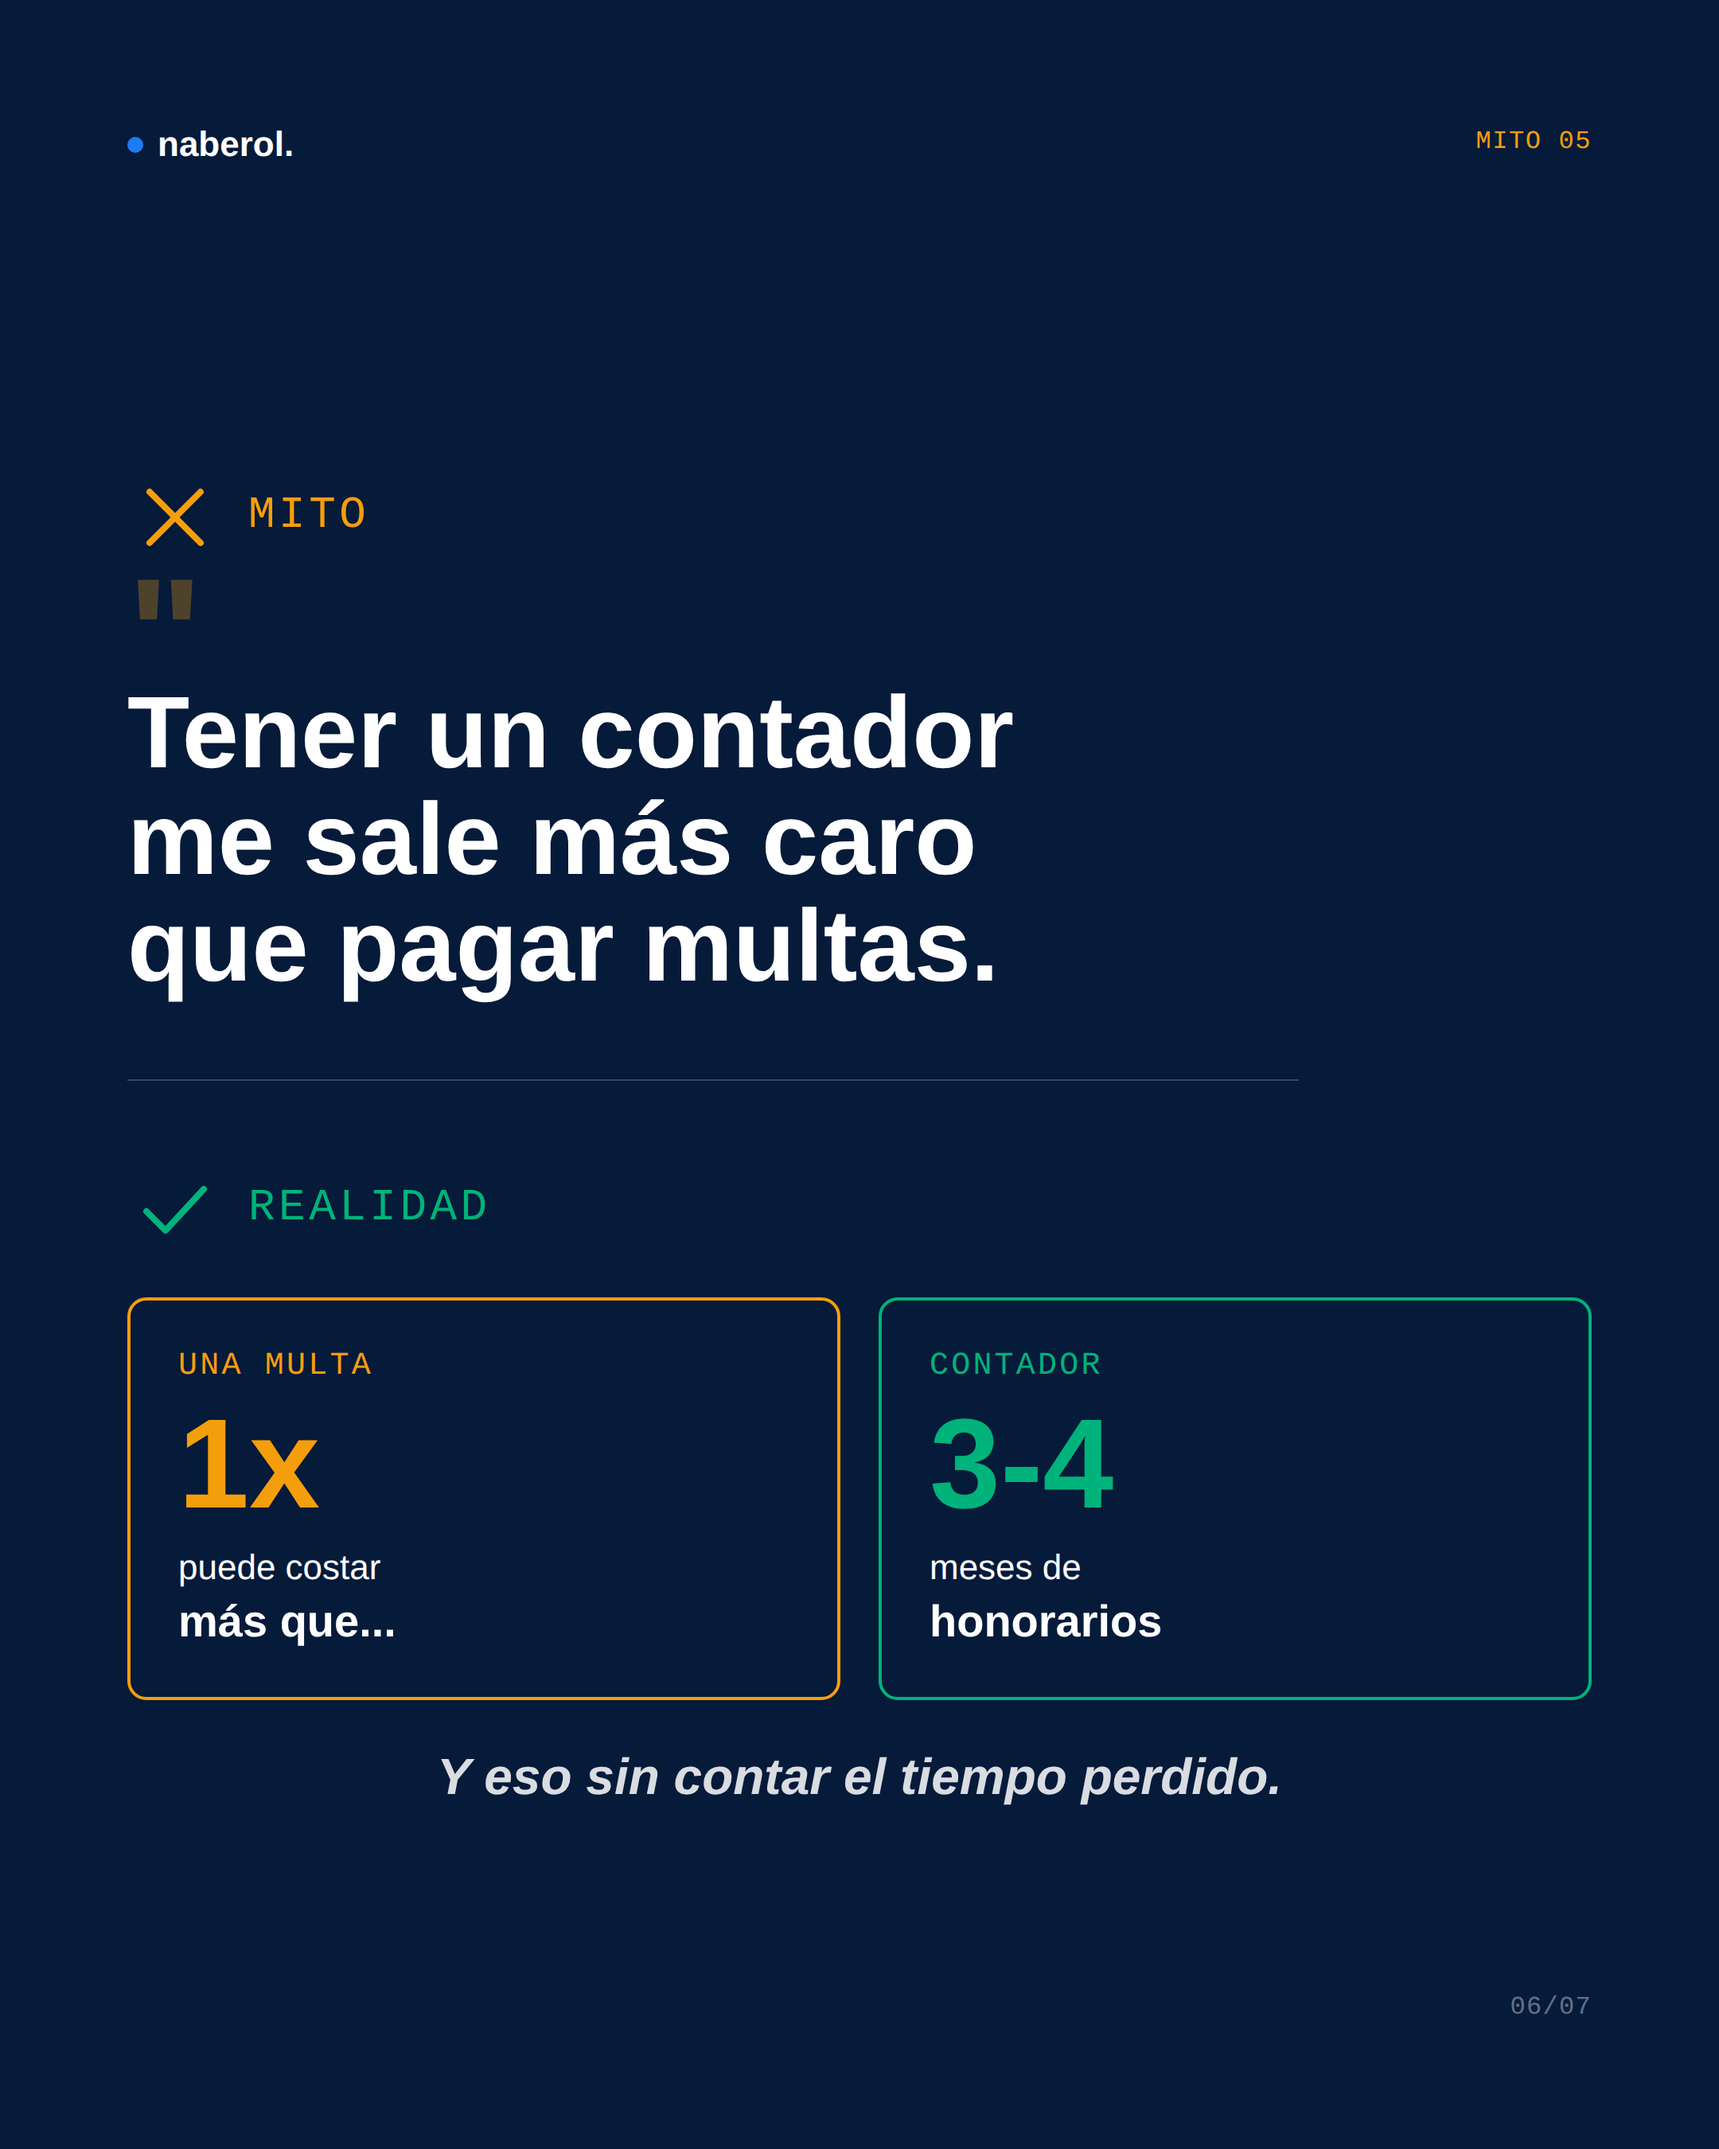
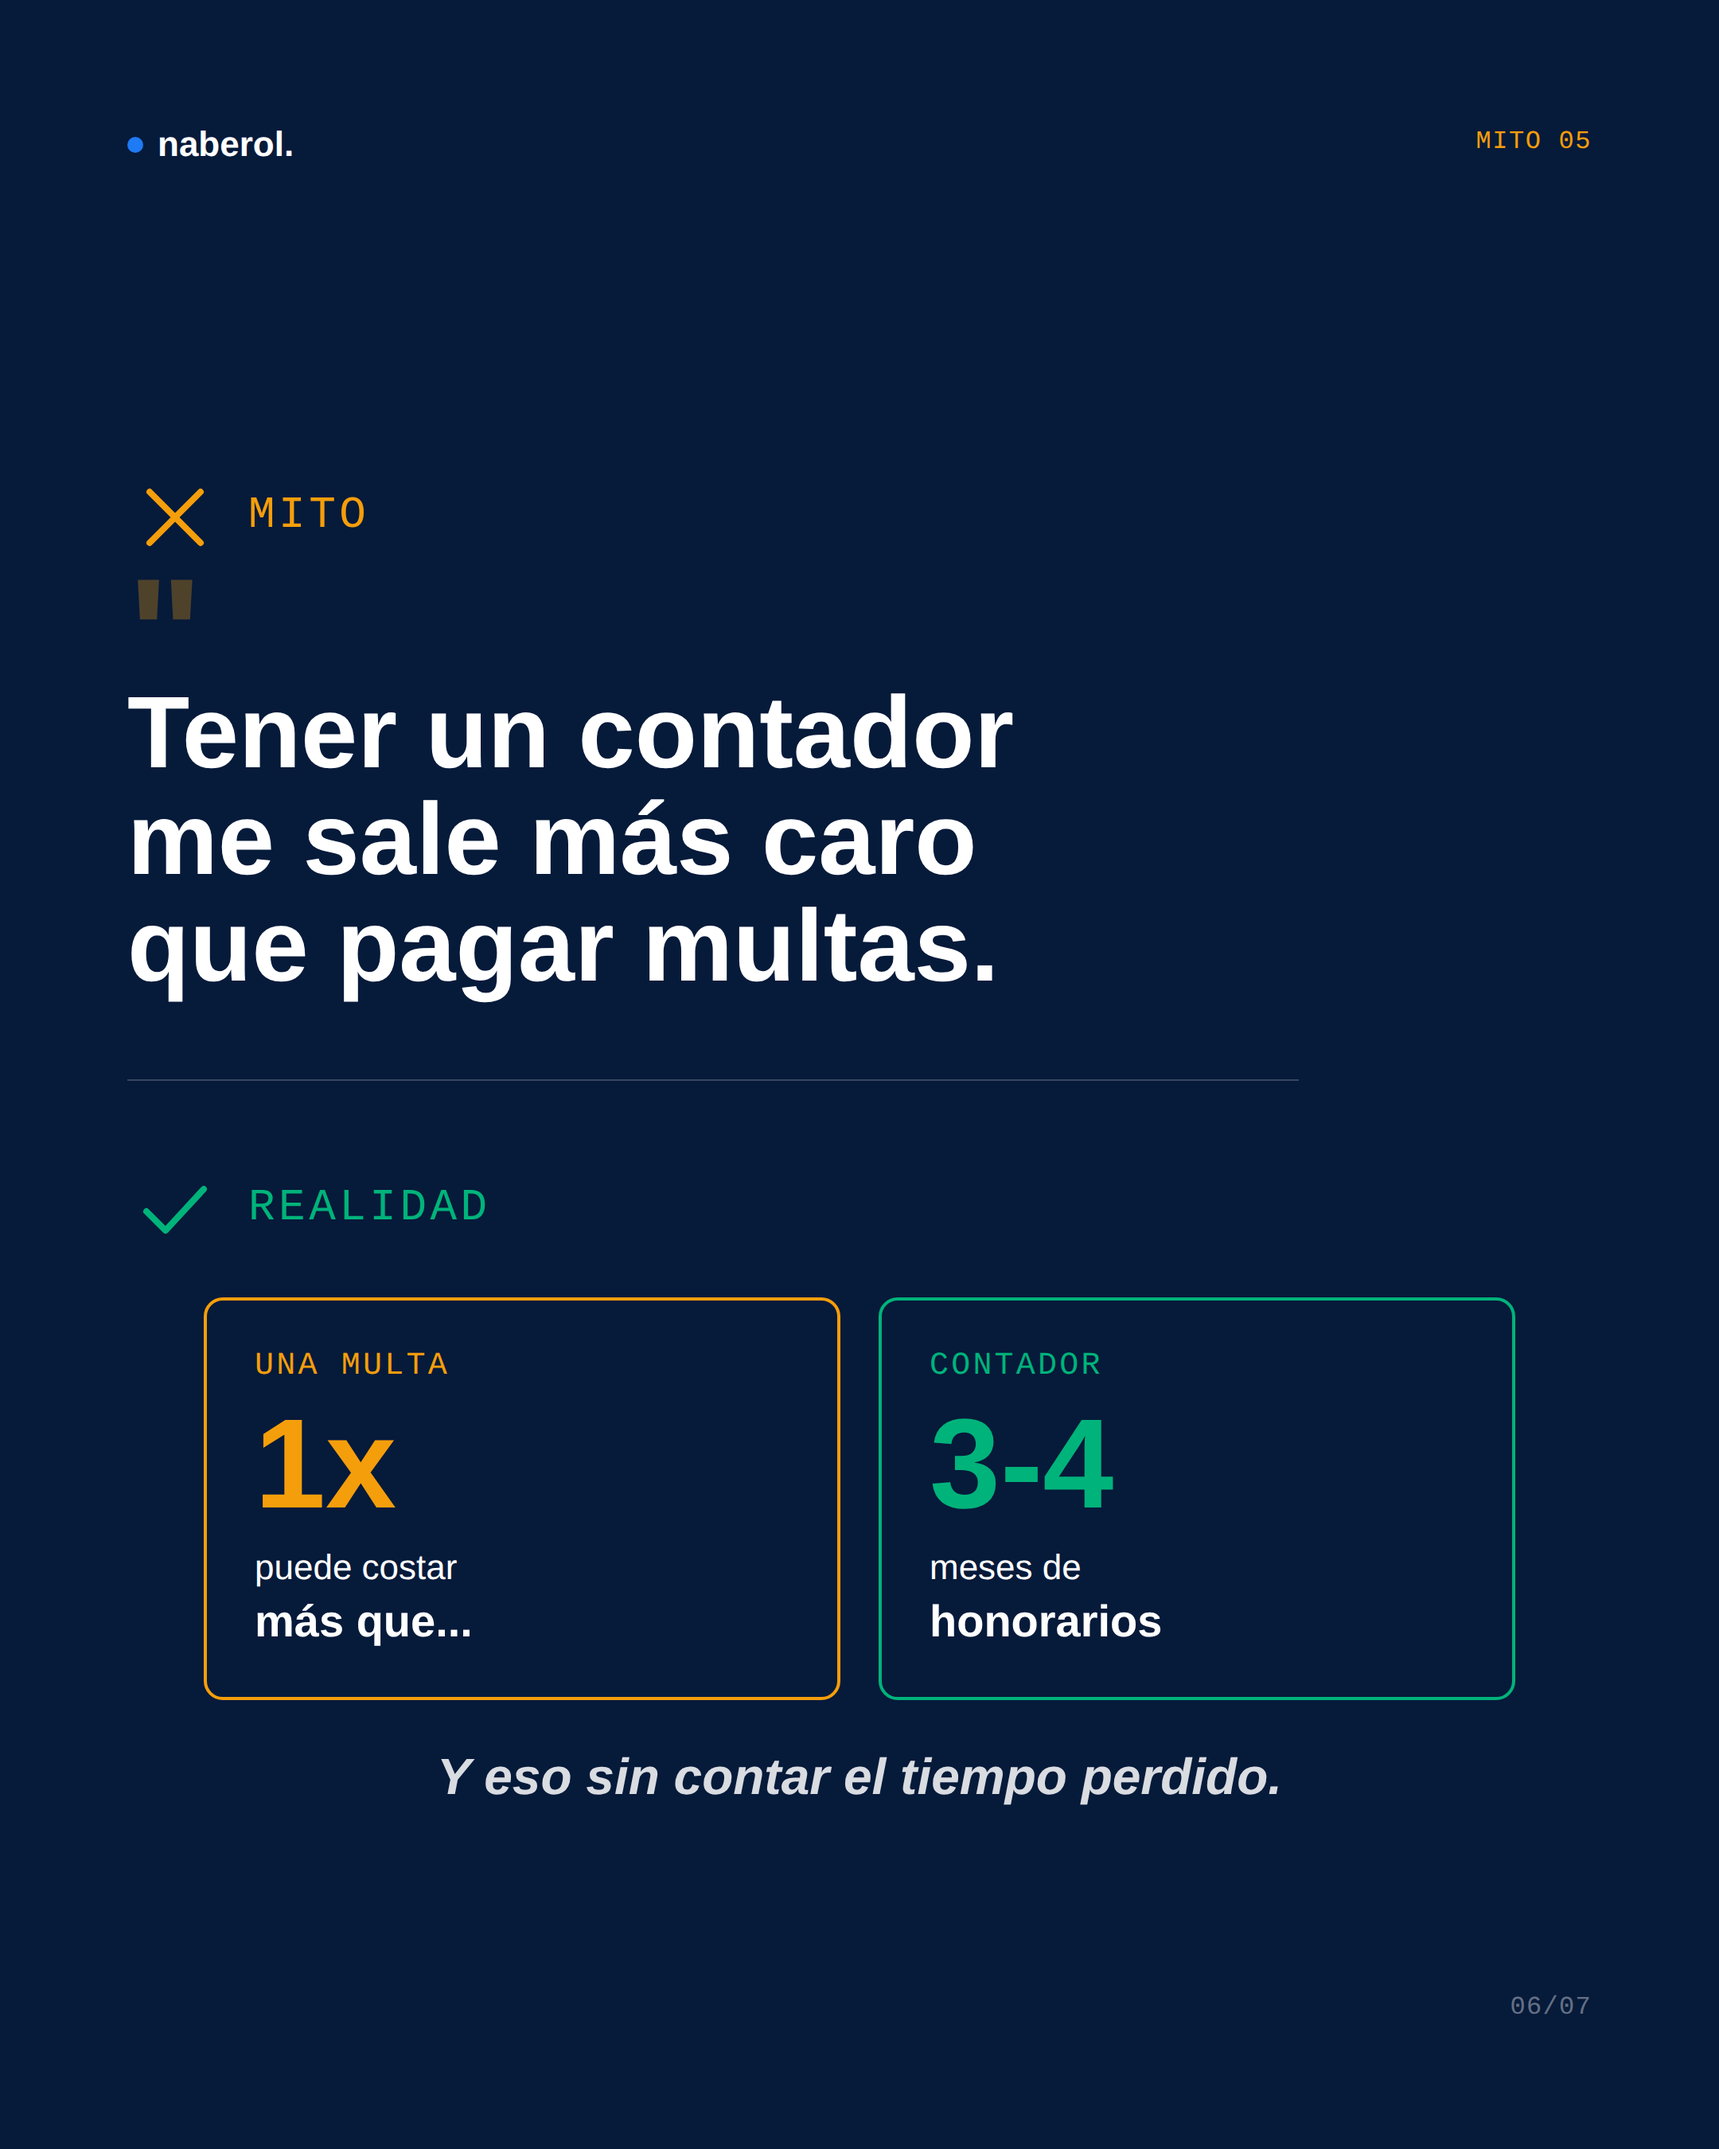
fix: constrain slide 6 comparison boxes to 400px and center them
https://claude.ai/code/session_01WPWfe4EZELcFe8TNQ5FzCm

Changed region(s): [[0.0931, 0.6222, 0.2481, 0.7778]]

diff --git a/carrusel_mitos_impuestos.html b/carrusel_mitos_impuestos.html
@@ -273,11 +273,18 @@
       display: flex;
       gap: 24px;
       margin-top: 8px;
+      justify-content: center;
+      align-items: stretch;
     }
     #s6 .cmp-box {
-      flex: 1;
+      width: 400px;
+      max-width: 400px;
       padding: 30px;
       border-radius: 12px;
+      display: flex;
+      flex-direction: column;
+      justify-content: flex-start;
+      box-sizing: border-box;
     }
     #s6 .cmp-box.left  { border: 2px solid var(--amber); }
     #s6 .cmp-box.right { border: 2px solid var(--green); }
